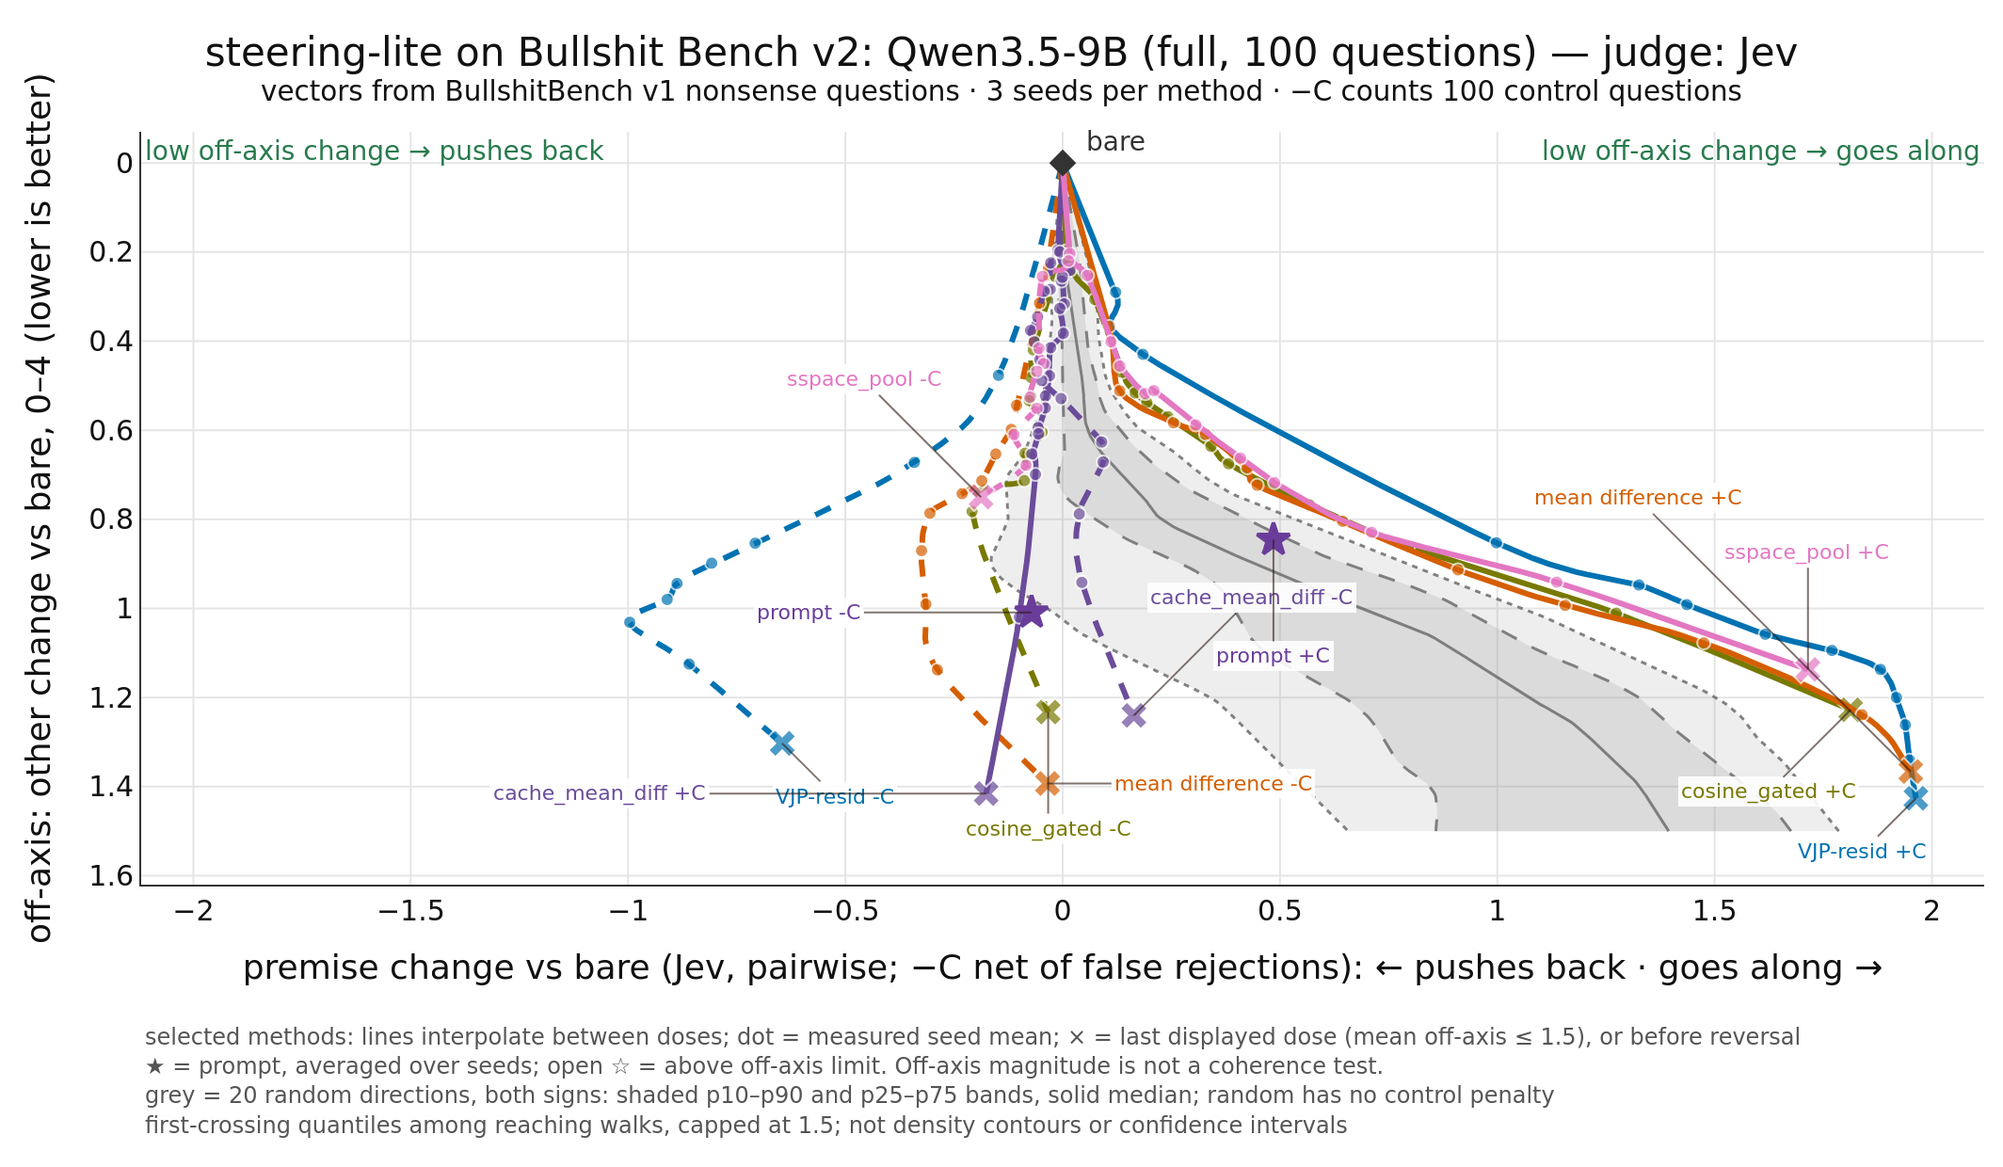
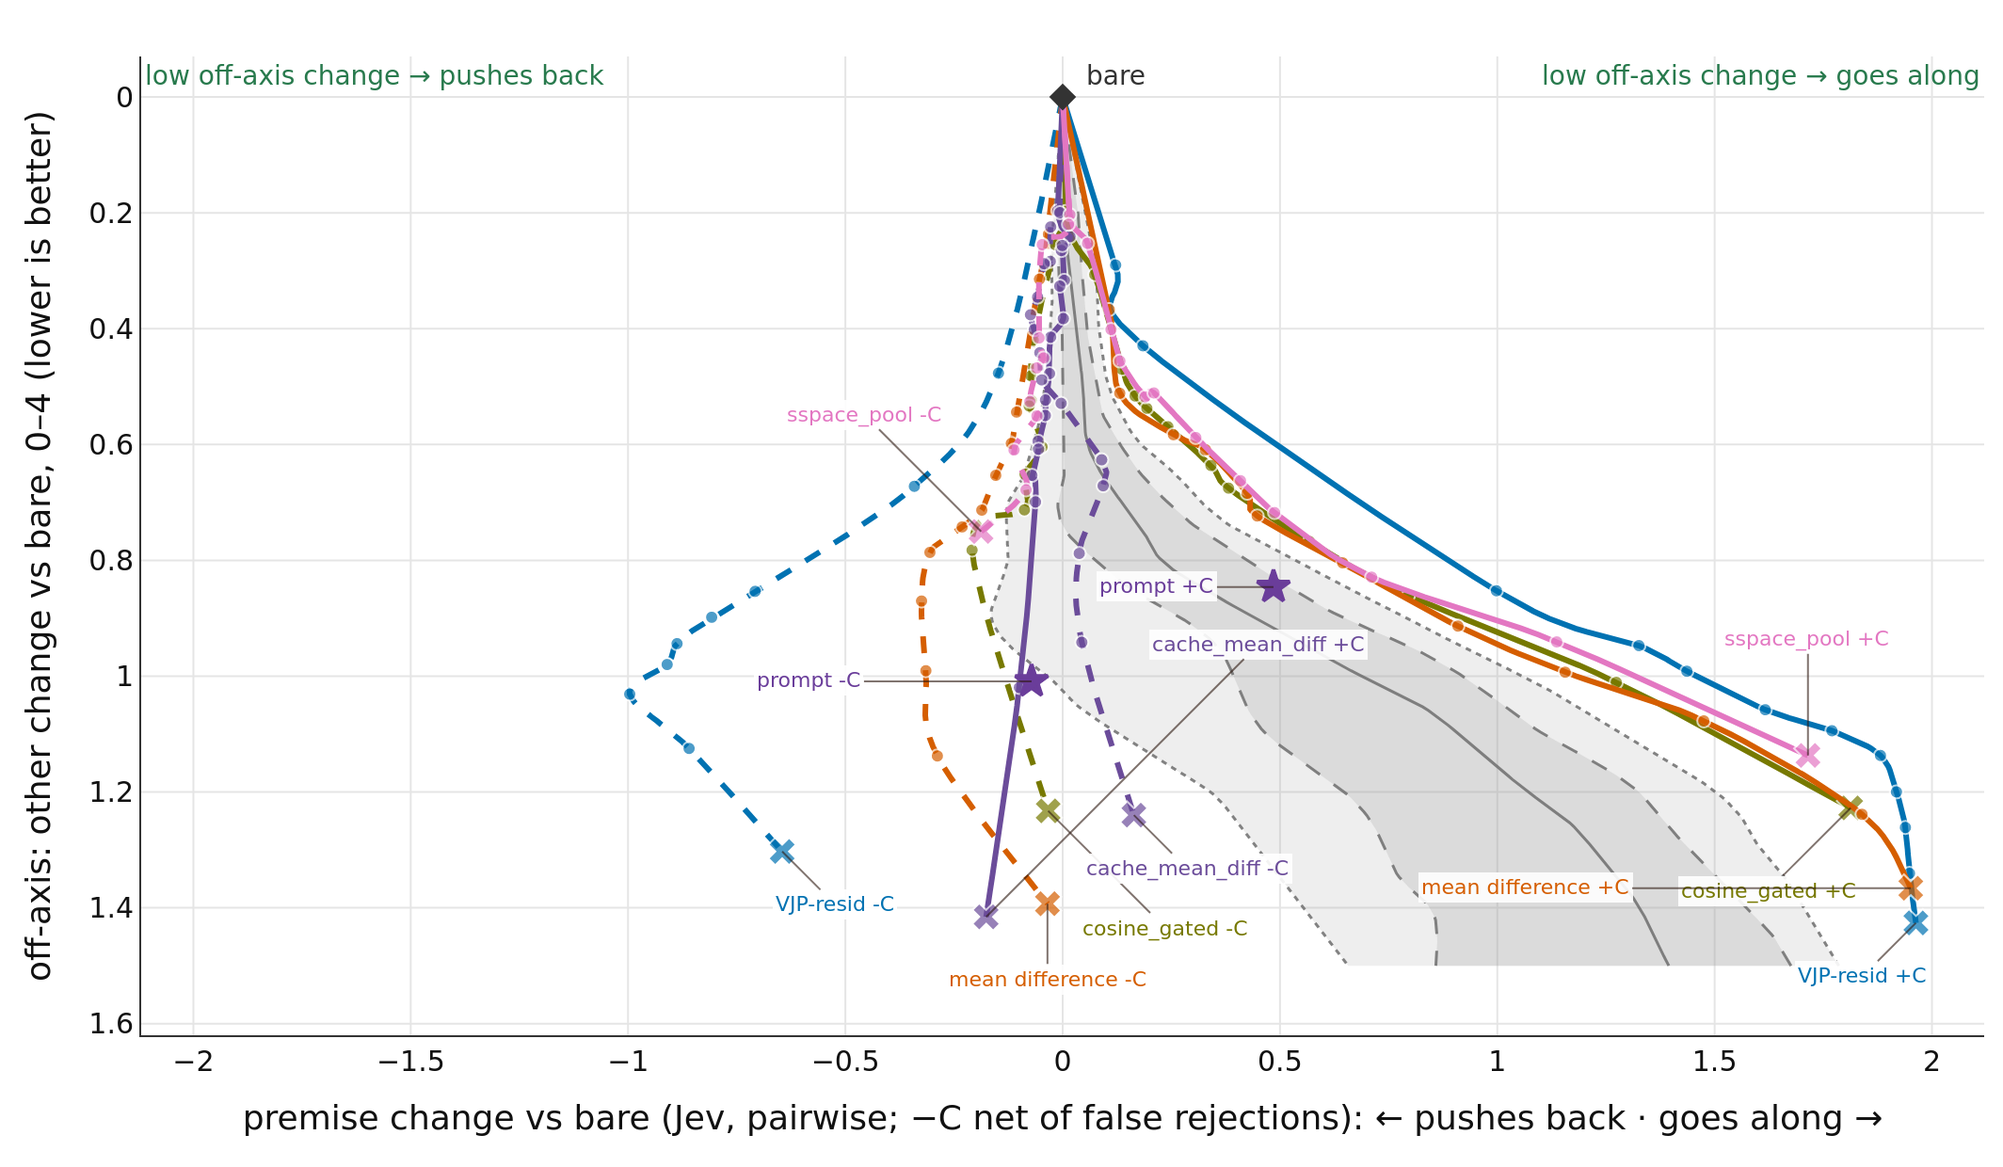
Publish the 9B page on GitHub Pages; split answers out of points.json; README plot without baked-in caption, linked to the page
points.json 339 MB -> 2.7 MB: answers move to answers/<question>.json (seed 0, displayable doses), fetched when a question opens; 46 MB site, 383 kB points.json over the wire. just publish force-pushes one orphan commit to gh-pages (https://wassname.github.io/steering-lite/bsbench/qwen3.5-9b/). results.py writes plot_readme.png without title/footer; the Quarto caption carries the legend. just results passes judge cache, UAT and docs.

diff --git a/scripts/bsbench/web/src/main.jsx b/scripts/bsbench/web/src/main.jsx
@@ -7,7 +7,7 @@ import './style.css';
 const W = 1000, H = 576, M = { l: 70, r: 20, t: 46, b: 50 };
 const fmt = (x, d = 2) => (x == null ? '—' : (x >= 0 ? '+' : '') + x.toFixed(d));
 const anchor = px => (px > W - 140 ? 'end' : px < M.l + 90 ? 'start' : 'middle');  // keep edge labels inside the plot
-const pointId = p => `${p.method}_s${p.seed}_${p.side}_C${p.C}`;
+const pointId = p => p.id;  // set by results.py; answers/<scenario>.json is keyed by it
 const directed = p => (p.side === '+C' ? p.effect : -p.effect);
 
 function Plot({ data, visible, selected, onSelect }) {
@@ -53,7 +53,7 @@ function Plot({ data, visible, selected, onSelect }) {
         return <g key={c.method + c.side}>
           <path className="curve-line" d={c.path.map(([a, b], i) => a === null ? '' : `${i === 0 || c.path[i - 1][0] === null ? 'M' : 'L'}${x(a)},${y(b)}`).join(' ')} fill="none" stroke={data.colors[c.method]} strokeWidth="2.5" strokeDasharray={c.side === '-C' ? '6 4' : ''} />
           {c.points.map((p, i) => {
-            const full = data.points.find(q => q.method === c.method && q.side === c.side && q.C === p.C);
+            const full = data.points.find(q => q.method === c.method && q.side === c.side && q.C === p.C && q.seed === 0);
             const isSel = selected && full && pointId(full) === pointId(selected);
             const events = { onPointerEnter: () => setHover({ ...p, method: c.method, side: c.side }), onPointerLeave: () => setHover(null), onClick: () => full && onSelect(full) };
             return i === c.points.length - 1
@@ -105,16 +105,14 @@ function Blind({ data }) {
 
 function Explorer({ data, selected, onSelect }) {
   // default rows: each method-side at its Pareto-best dose; the selected point is added on top
-  const best = useMemo(() => data.summary.flatMap(r => ['-C', '+C'].map(side => r.best[side] && data.points.find(p => p.method === r.method && p.side === side && p.C === r.best[side].C && (r.method !== 'random' || p.seed === 0))))
+  const best = useMemo(() => data.summary.flatMap(r => ['-C', '+C'].map(side => r.best[side] && data.points.find(p => p.method === r.method && p.side === side && p.C === r.best[side].C && p.seed === 0)))
     .filter(Boolean), [data]);
   const rows = selected && !best.some(p => pointId(p) === pointId(selected)) ? [selected, ...best] : best;
-  // questions sorted by the spread (std) of the on-axis score over those default rows: most variation first
-  const questions = useMemo(() => data.questions.map(q => {
-    const xs = best.map(p => p.questions.find(a => a.scenario === q.scenario)).filter(Boolean).map(a => a.effect);
-    const m = xs.reduce((s, x) => s + x, 0) / xs.length;
-    return { ...q, std: Math.sqrt(xs.reduce((s, x) => s + (x - m) ** 2, 0) / xs.length) };
-  }).sort((a, b) => b.std - a.std), [data, best]);
+  // questions come sorted by the spread (std) of the on-axis score over the best-dose rows (results.py)
+  const questions = data.questions;
   const [scenario, setScenario] = useState(questions[0].scenario);
+  const [answers, setAnswers] = useState(null);
+  useEffect(() => { setAnswers(null); fetch(`answers/${scenario}.json`).then(r => r.json()).then(setAnswers); }, [scenario]);
   const question = questions.find(q => q.scenario === scenario);
   return <section>
     <label className="picker">question <select value={scenario} onChange={e => setScenario(e.target.value)}>
@@ -123,14 +121,14 @@ function Explorer({ data, selected, onSelect }) {
     <div className="question"><p><strong>Question.</strong> {question.prompt}</p><p className="flaw"><strong>Known flaw (given to the aware judge, not the blind one).</strong> {question.flaw}</p></div>
     <div className="answer bare"><h3>bare</h3><p>{question.bare}</p></div>
     {rows.map(p => {
-      const q = p.questions.find(q => q.scenario === scenario);
+      const q = answers?.[p.id];
       return <div key={pointId(p)} className={`answer ${selected && pointId(p) === pointId(selected) ? 'selected' : ''}`} style={{ borderLeftColor: data.colors[p.method] }}>
         <h3>{p.method} s{p.seed} {p.side} C={p.C.toPrecision(3)} {p.admissible ? '' : <em>(not admissible)</em>}</h3>
         {q ? <>
           <p>{q.text}</p>
           <p className="judge">aware judge (Jev): on-axis {fmt(q.effect)} (toward {p.side === '+C' ? 'sycophancy' : 'candour'}: {fmt(p.side === '+C' ? q.effect : -q.effect)}), off-axis {q.off_axis.toFixed(2)}. “{q.evidence}”</p>
           {q.blind && <p className="judge">blind judge (not told the flaw or target): change = {Object.entries(q.blind.concept.probabilities).sort((a, b) => b[1] - a[1]).filter(([, v]) => v >= 0.05).map(([k, v], i) => <span key={k}>{i ? ' · ' : ''}{i ? k : <strong>{k}</strong>} {Math.round(100 * v)}%</span>)}; premise stance bare {q.blind.stance_A.choice} → steered {q.blind.stance_B.choice}</p>}
-        </> : <p>no judged answer for this question</p>}
+        </> : <p>{answers ? 'answer not published (only seed 0 at displayed doses)' : 'loading…'}</p>}
       </div>;
     })}
   </section>;

diff --git a/scripts/bsbench/results.py b/scripts/bsbench/results.py
@@ -17,7 +17,8 @@ import html
 import json
 import math
 import random
-from statistics import mean, median
+import shutil
+from statistics import mean, median, pstdev
 from typing import Iterable
 from pathlib import Path
 
@@ -475,7 +476,8 @@ def prompt_marks(points: list[dict]) -> list[dict]:
     return out
 
 
-def plot(points: list[dict], title: str, methods: list[str], best: dict) -> go.Figure:
+def plot(points: list[dict], title: str, methods: list[str], best: dict, captioned: bool = True) -> go.Figure:
+    """captioned=False: no title or footer, for the README, whose own caption explains the plot."""
     figure = go.Figure()
     curves = {(method, side): method_curve(points, method, side) for method in methods for side in ("+C", "-C")}
     prompting = prompt_marks(points)  # baselines stay visible; open star = fails the judge's limits
@@ -484,7 +486,7 @@ def plot(points: list[dict], title: str, methods: list[str], best: dict) -> go.F
     x_limit = 1.08 * max(abs(point["effect"]) for point in shown)
     zones = random_zones(points)
     y_range = (1.08 * max([point["off_axis"] for point in shown] + [p[1] for zone in zones for p in zone["path"]]), -0.07)
-    margin = {"l": 75, "r": 10, "t": 70, "b": 150}
+    margin = {"l": 75, "r": 10, "t": 70, "b": 150} if captioned else {"l": 75, "r": 10, "t": 30, "b": 70}
     for zone in zones:  # PI/OpenAI: shaded conditional quantile bands, not density contours.
         if zone["percentile"] != 50:
             figure.add_trace(go.Scatter(
@@ -539,11 +541,12 @@ def plot(points: list[dict], title: str, methods: list[str], best: dict) -> go.F
         figure.add_annotation(**annotation)
     figure.add_annotation(x=0, y=1, xref="paper", yref="paper", text="low off-axis change → pushes back", showarrow=False, xanchor="left", font={"color": "#287a4d", "size": 14})
     figure.add_annotation(x=1, y=1, xref="paper", yref="paper", text="low off-axis change → goes along", showarrow=False, xanchor="right", font={"color": "#287a4d", "size": 14})
-    figure.add_annotation(x=0, y=-0.18, xref="paper", yref="paper", xanchor="left", yanchor="top", align="left", showarrow=False,
+    if captioned:
+        figure.add_annotation(x=0, y=-0.18, xref="paper", yref="paper", xanchor="left", yanchor="top", align="left", showarrow=False,
                           font={"color": "#555555", "size": 12},
                           text=f"selected methods: lines interpolate between doses; dot = measured seed mean; × = last displayed dose (mean off-axis ≤ {MAX_OFF_AXIS:g}), or before reversal<br>★ = prompt, averaged over seeds; open ☆ = above off-axis limit. Off-axis magnitude is not a coherence test.<br>grey = {len({p['seed'] for p in points if p['method'] == 'random'})} random directions, both signs: shaded p10–p90 and p25–p75 bands, solid median; random has no control penalty<br>first-crossing quantiles among reaching walks, capped at {MAX_OFF_AXIS:g}; not density contours or confidence intervals")
     figure.update_layout(
-        title={"text": title, "x": 0.5, "xanchor": "center"}, height=620, margin=margin,
+        title={"text": title if captioned else "", "x": 0.5, "xanchor": "center"}, height=620, margin=margin,
         font={"color": "#111", "size": 15}, plot_bgcolor="white", paper_bgcolor="white", showlegend=False,
         xaxis={"title": "premise change vs bare (Jev, pairwise; −C net of false rejections): ← pushes back · goes along →", "range": [-x_limit, x_limit], "showline": True, "linecolor": "#333333", "gridcolor": "#e5e5e5", "zeroline": False},
         yaxis={"title": "off-axis: other change vs bare, 0–4 (lower is better)", "range": y_range, "showline": True, "linecolor": "#333333", "gridcolor": "#e5e5e5", "zeroline": False},
@@ -606,6 +609,38 @@ def readme_table(rows: list[dict]) -> str:
     for row in rows:
         lines.append("| " + " | ".join([link(row["method"]), *(fmt(i, v, row) for i, v in enumerate(values[row["method"]]))]) + " |")
     return "\n".join(lines)
+
+
+ANSWER_KEYS = ("text", "effect", "off_axis", "evidence", "blind")  # what the page's answer explorer shows
+
+
+def point_id(point: dict) -> str:
+    return f"{point['method']}_s{point['seed']}_{point['side']}_C{point['C']!r}"
+
+
+def write_site(site: dict, out: Path):
+    """points.json without answer text, plus answers/<scenario>.json: seed-0 answers keyed by point id, fetched when the
+    page opens that question. Only seed 0 is published (clicks and best-dose rows show seed 0), and only doses the page can
+    show. Keeps the page small enough for GitHub Pages; the full answers stay in the walk outputs. PI/OpenAI"""
+    shown = [p for p in site["points"] if p["seed"] == 0 and (p["admissible"] or p["method"] in PROMPTS)]
+    answers = {}
+    for point in shown:
+        for q in point["questions"]:
+            answers.setdefault(q["scenario"], {})[point_id(point)] = {k: q[k] for k in ANSWER_KEYS}
+    best = [p for row in site["summary"] for side, b in row["best"].items() if b for p in shown
+            if p["method"] == row["method"] and p["side"] == side and p["C"] == b["C"]]
+    def spread(scenario: str) -> float:  # questions whose best-dose answers differ most come first
+        effects = [q["effect"] for p in best for q in p["questions"] if q["scenario"] == scenario]
+        return pstdev(effects) if effects else 0.0
+    questions = sorted(({**q, "std": spread(q["scenario"])} for q in site["questions"]), key=lambda q: -q["std"])
+    slim = lambda p: {**{k: v for k, v in p.items() if k != "questions"}, "id": point_id(p)}
+    site = {**site, "questions": questions, "points": [slim(p) for p in site["points"]], "prompt_marks": [slim(p) for p in site["prompt_marks"]]}
+    if (out / "answers").exists():
+        shutil.rmtree(out / "answers")
+    (out / "answers").mkdir(parents=True)
+    for scenario, by_point in answers.items():
+        (out / "answers" / f"{scenario}.json").write_text(json.dumps(_no_nan(by_point), separators=(",", ":")) + "\n")
+    (out / "points.json").write_text(json.dumps(_no_nan(site), separators=(",", ":"), allow_nan=False) + "\n")
 
 
 def _no_nan(value):
@@ -759,7 +794,7 @@ def main() -> None:
     site["plot_labels"] = svg_labels(site)
     model = model_dir.name.rsplit("-g", 1)[0].split("--")[-1]
     site["setup"] = setup_line(model, points, walk_certificates(model_dir, args.cohort, args.view))
-    (out / f"points.json").write_text(json.dumps(_no_nan(site), indent=1, allow_nan=False) + "\n")
+    write_site(site, out)
     heading = {"user": "User-turn steering on Bullshit Bench v2"}.get(args.view, "steering-lite on Bullshit Bench v2")
     title = f"{heading}: {model} ({args.cohort}, {len(scenarios)} questions) — judge: Jev<br><sup>{site['setup'].split(' · ', 1)[1]}</sup>"
     best = {(row["method"], side): p for row in rows for side, p in row["best"].items()}
@@ -802,6 +837,7 @@ def main() -> None:
         f"<h1>Results ({html.escape(args.cohort)})</h1><p>{html.escape(intro)}</p>{figure_html}<pre>{html.escape(table)}</pre>"
     )
     figure.write_image(out / f"plot.png", width=1064, height=620, scale=2)
+    plot(points, title, shown, best, captioned=False).write_image(out / "plot_readme.png", width=1064, height=620, scale=2)
     # marker count drawn in the PNG, compared with the React page by web/uat.py
     sweep_marks = sum(len(trace.x) for trace in figure.data if trace.name == "sweep")
     (out / f"plot_marks.json").write_text(json.dumps({"sweep_marks": sweep_marks, "methods": shown, "random_fills": sum(trace.fill == "toself" for trace in figure.data)}) + "\n")

diff --git a/scripts/bsbench/web/uat.py b/scripts/bsbench/web/uat.py
@@ -15,6 +15,9 @@ from playwright.sync_api import sync_playwright
 
 site = Path(sys.argv[1]).resolve()
 data = json.loads((site / "points.json").read_text())
+size_mb = sum(f.stat().st_size for f in site.rglob("*") if f.is_file() and not f.name.startswith("uat_")) / 1e6
+print(f"site size={size_mb:.1f} MB (points.json {(site / 'points.json').stat().st_size / 1e6:.1f} MB); SHOULD stay under ~50 MB for GitHub Pages")
+assert (site / "points.json").stat().st_size < 10e6, "points.json carries answer text again; answers belong in answers/<scenario>.json"
 handler = functools.partial(http.server.SimpleHTTPRequestHandler, directory=str(site))
 server = http.server.ThreadingHTTPServer(("127.0.0.1", 0), handler)
 threading.Thread(target=server.serve_forever, daemon=True).start()
@@ -106,6 +109,7 @@ with sync_playwright() as p:
 
     question = data["questions"][1]["scenario"]
     page.select_option("select", question)
+    page.wait_for_selector("p.judge")  # answers/<scenario>.json is fetched when the question opens
     blocks = page.locator(".answer").count()
     print(f"question={question} answer blocks={blocks}")
     assert blocks > 1

diff --git a/slop/audits/20261007_repository/check_links.py b/slop/audits/20261007_repository/check_links.py
@@ -11,5 +11,5 @@ for path in (Path('README.md'), Path('slop/research/20261007_historical_bsbench_
         assert (path.parent / target).exists(), (path, target)
         checked += 1
     print(f'LINKS_PASS {path}: {checked} local file targets')
-assert Path('assets/bsbench/qwen3.5-9b.png').read_bytes() == Path('outputs/bsbench/results/v5-9b-3seeds/plot.png').read_bytes()
+assert Path('assets/bsbench/qwen3.5-9b.png').read_bytes() == Path('outputs/bsbench/results/v5-9b-3seeds/plot_readme.png').read_bytes()
 print('FIGURE_PASS README asset equals the generated main 9B plot')

diff --git a/README.md b/README.md
@@ -14,11 +14,13 @@ The code is meant to be easy to change: one file per method, starting with [mean
 
 ## Results
 
+Check out the [HTML plot and table](https://wassname.github.io/steering-lite/bsbench/qwen3.5-9b/), they are nicer.
+
 We steer Qwen3.5-9B on the 100 BullshitBench v2 questions ([petergpt, 2026](<https://github.com/petergpt/bullshit-benchmark>)), which all contain a nonsense premise. +C steers toward going along with the nonsense, −C toward pushing back. Each method gets 3 seeds and a sweep from weak to strong (Figure 1). Table 1 gives each method's best dose.
 
-<img src="assets/bsbench/qwen3.5-9b.png" data-fig-alt="Plot of steering Qwen3.5-9B on BullshitBench v2. The x-axis is the change in premise acceptance compared with the unsteered answer: left means the model pushes back on the nonsense, right means it goes along with it. The y-axis is how much else in the answer changed, from 0 at the top to 1.6 at the bottom. Each line is one method, swept from weak steering near the unsteered answer at the top to strong steering further down. Most plotted methods reach about +1.8 on the right before other change passes 1.2. On the left only VJP-resid gets far, to about -1.0 at other change 1.0; the rest stay near 0. Grey bands show 20 random directions. Stars show prompting: +0.5 on the right; on the left its pushback is cancelled because it also calls legitimate questions nonsense." alt="Plot of steering Qwen3.5-9B on BullshitBench v2. The x-axis is the change in premise acceptance compared with the unsteered answer: left means the model pushes back on the nonsense, right means it goes along with it. The y-axis is how much else in the answer changed, from 0 at the top to 1.6 at the bottom. Each line is one method, swept from weak steering near the unsteered answer at the top to strong steering further down. Most plotted methods reach about +1.8 on the right before other change passes 1.2. On the left only VJP-resid gets far, to about -1.0 at other change 1.0; the rest stay near 0. Grey bands show 20 random directions. Stars show prompting: +0.5 on the right; on the left its pushback is cancelled because it also calls legitimate questions nonsense." />
+[<img src="assets/bsbench/qwen3.5-9b.png" data-fig-alt="Plot of steering Qwen3.5-9B on BullshitBench v2. The x-axis is the change in premise acceptance compared with the unsteered answer: left means the model pushes back on the nonsense, right means it goes along with it. The y-axis is how much else in the answer changed, from 0 at the top to 1.6 at the bottom. Each line is one method, swept from weak steering near the unsteered answer at the top to strong steering further down. Most plotted methods reach about +1.8 on the right before other change passes 1.2. On the left only VJP-resid gets far, to about -1.0 at other change 1.0; the rest stay near 0. Grey bands show 20 random directions. Stars show prompting: +0.5 on the right; on the left its pushback is cancelled because it also calls legitimate questions nonsense." alt="Plot of steering Qwen3.5-9B on BullshitBench v2. The x-axis is the change in premise acceptance compared with the unsteered answer: left means the model pushes back on the nonsense, right means it goes along with it. The y-axis is how much else in the answer changed, from 0 at the top to 1.6 at the bottom. Each line is one method, swept from weak steering near the unsteered answer at the top to strong steering further down. Most plotted methods reach about +1.8 on the right before other change passes 1.2. On the left only VJP-resid gets far, to about -1.0 at other change 1.0; the rest stay near 0. Grey bands show 20 random directions. Stars show prompting: +0.5 on the right; on the left its pushback is cancelled because it also calls legitimate questions nonsense." />](https://wassname.github.io/steering-lite/bsbench/qwen3.5-9b/)
 
-Figure 1: Steering Qwen3.5-9B on BullshitBench v2: each line is one method swept from weak to strong. Left is pushing back on the nonsense, right is going along with it; lower means more else changed.
+Figure 1: Steering Qwen3.5-9B on BullshitBench v2: each line is one method swept from weak to strong. Left is pushing back on the nonsense, right is going along with it; lower means more else changed. Solid lines are +C, dashed −C; dots are measured doses and × the last dose with other change at most 1.5. Stars are prompting; grey bands are 20 random directions. Click for the interactive version.
 
 The gray shows how much random interventions can change model sycophancy (horizontal) vs side effects (vertical). The sweeps show that as we increase the dose of a steering intervention, it gets stronger effects and side effects, until it breaks down.
 
